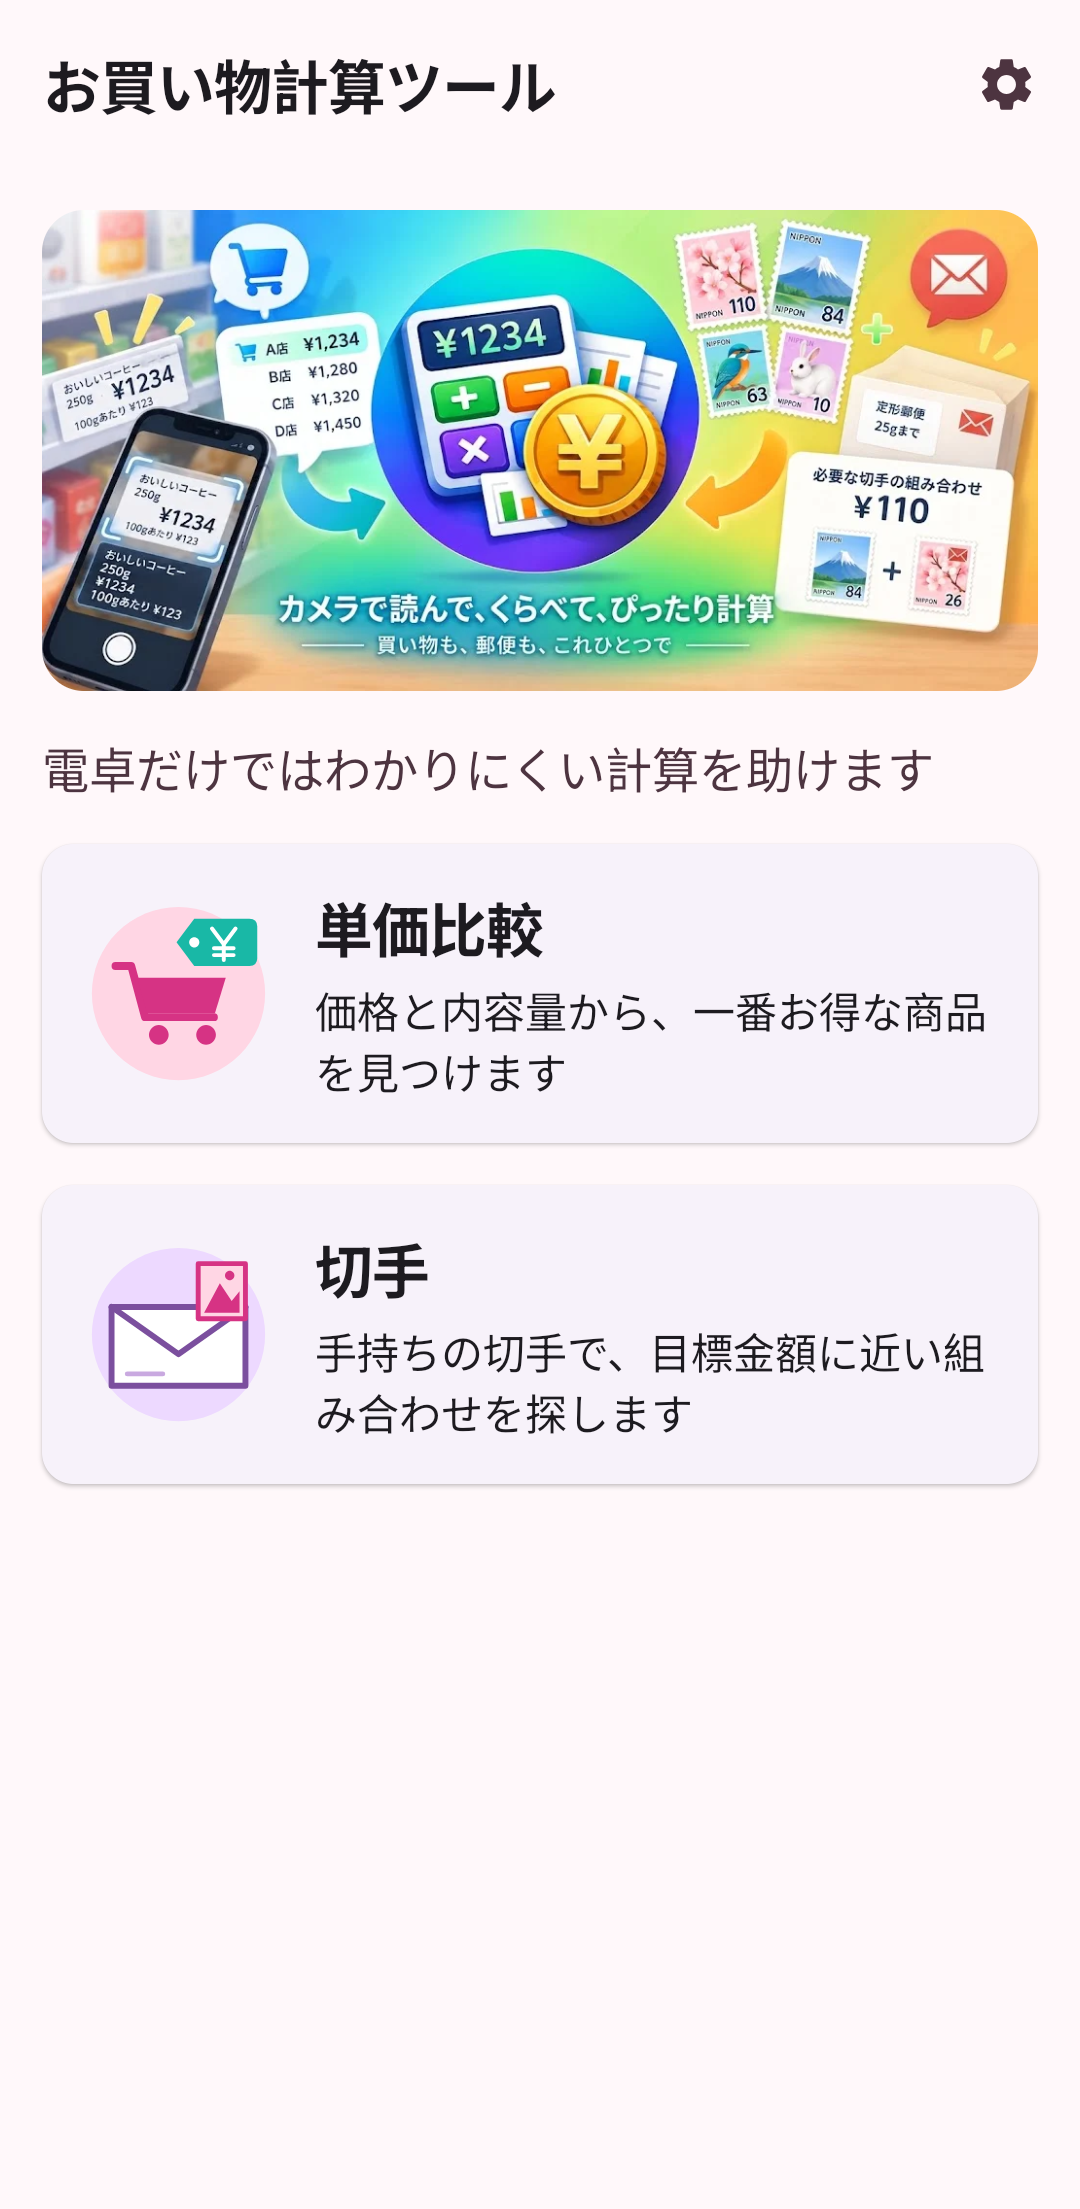
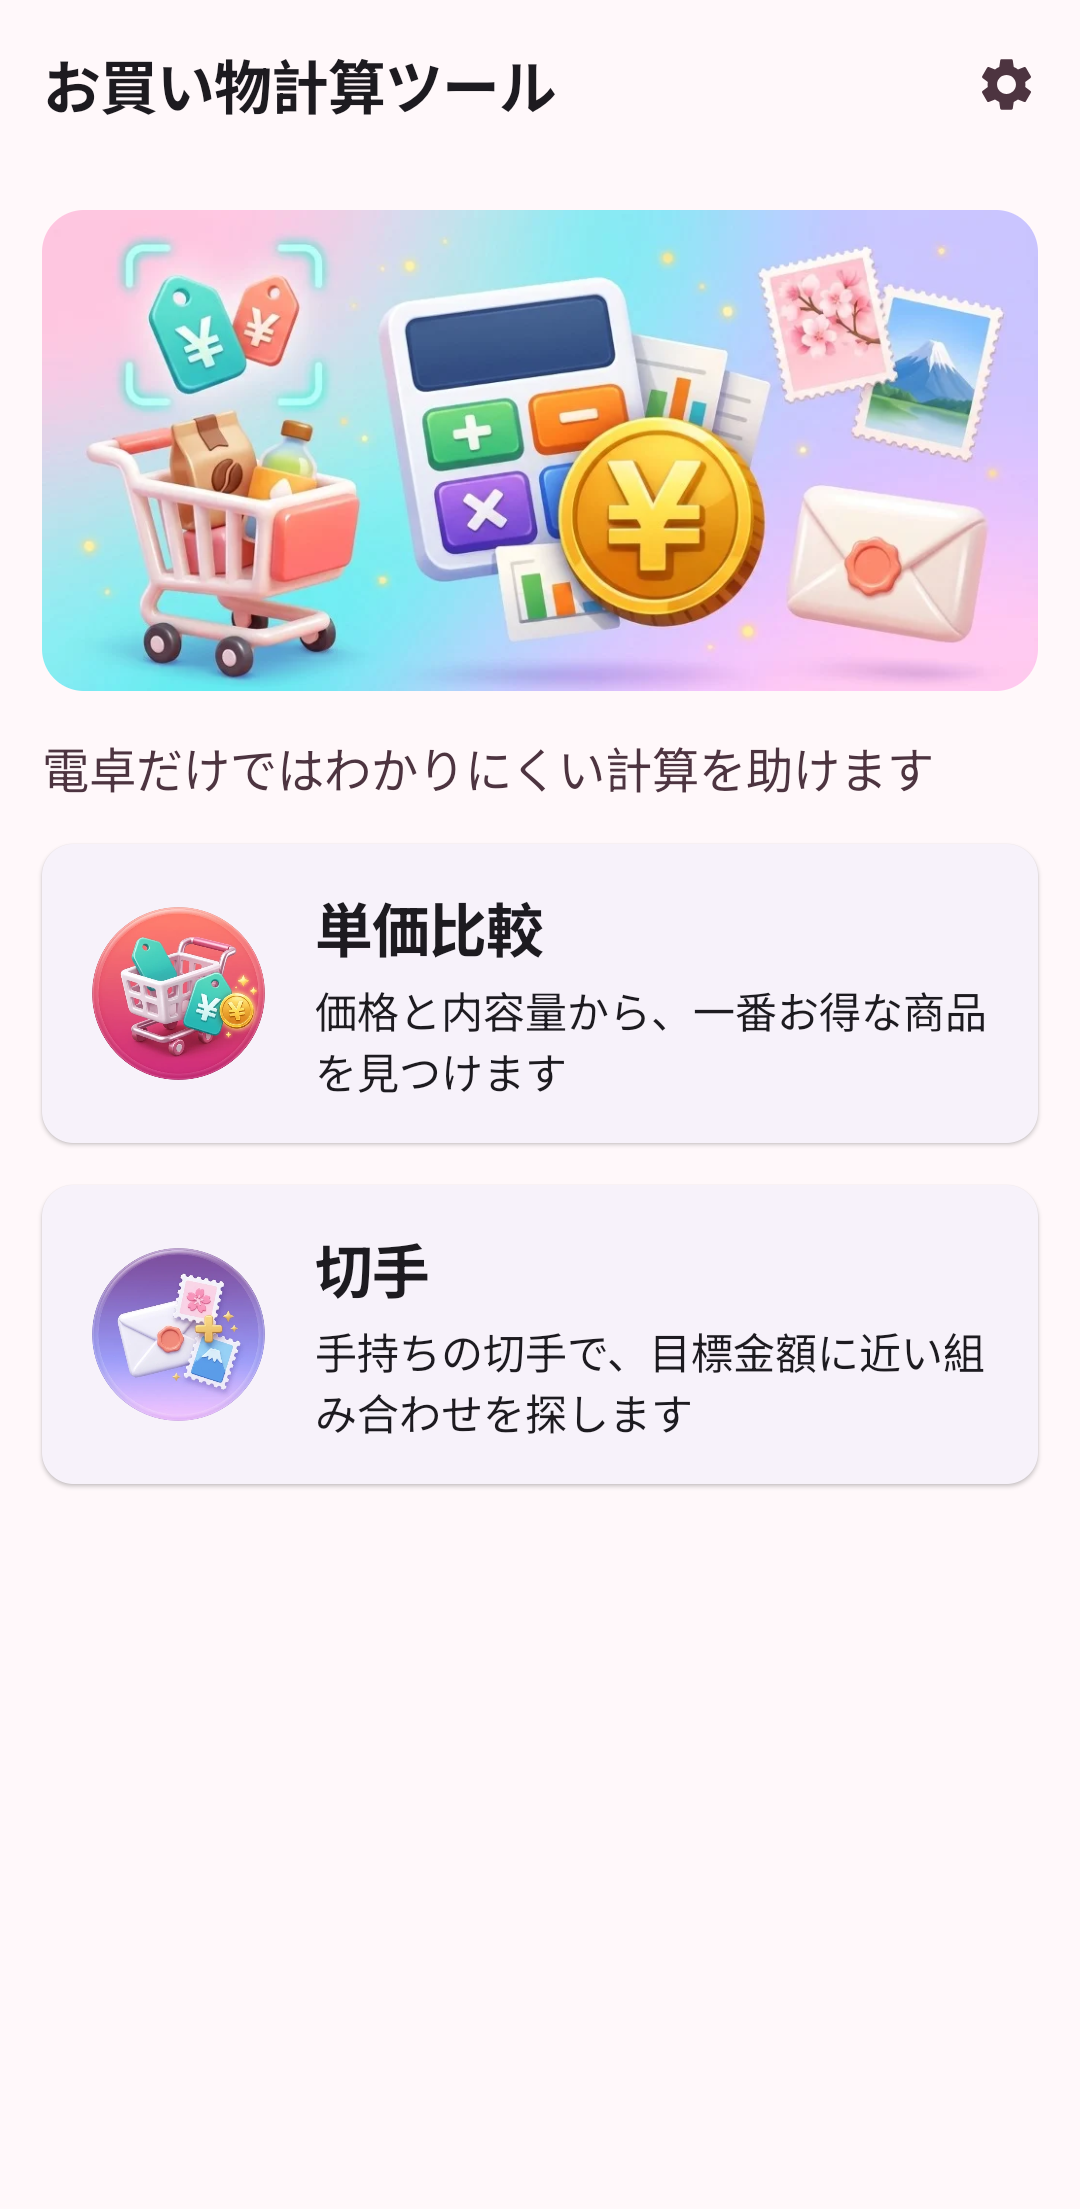
feat: メニュー画面のバナーと機能カード画像をラスター画像へ差し替え (#81, #112) (#117)

Changed region(s): [[0.0306, 0.0937, 0.9778, 0.3124], [0.0611, 0.5622, 0.2444, 0.656], [0.0611, 0.4061, 0.2444, 0.4998]]

diff --git a/CHANGELOG.md b/CHANGELOG.md
@@ -32,8 +32,8 @@
   - 起動時にメニューを表示し、各計算機能をカードで選んで開く。機能の定義（`ToolFeature`）を一覧にして、新しい機能を追加しやすくした
   - 設定はメニュー右上の ⚙ から開く
 - メニューにグラフィックを追加 (#81)
-  - ヘッダーに、ストア掲載と同じバナーを表示。`assets/feature-graphic.jpg` から `scripts/generate_menu_banner.mjs`（`pnpm gen-menu-banner`）で WebP に変換する
-  - 各機能のカードに、Vector Drawable のイラスト（単価比較: カートと値札、切手: 封筒と切手）を表示。`ToolFeature` の `icon` を `graphicRes` に置き換え、新しい機能はイラストを添えて追加する
+  - ヘッダーに、メニュー専用のバナーを表示。`assets/menu-banner.jpg`（Play ストア用の `assets/feature-graphic.jpg` とは別原画）から `scripts/generate_menu_banner.mjs`（`pnpm gen-menu-banner`）で `drawable-nodpi/menu_banner.webp` に変換する
+  - 各機能のカードに、透過 WebP の円形バッジイラスト（`drawable-nodpi/menu_unit_price.webp`・`menu_stamps.webp`）を表示。`ToolFeature` の `icon` を `graphicRes` に置き換え、新しい機能はイラストを添えて追加する
 - ストア掲載用に、新しい UI（メニュー・単価比較・切手・設定）のスクリーンショットを追加 (#112)
   - `StoreScreenshotsTest`（`androidTest`）が、画面の状態をセットして撮影する。通常のテスト実行では何もせずに成功し、`captureScreenshots=true` を渡したときだけ撮影する。システムバーを除いた、アプリの画面だけを保存する
   - `assets/screenshot/v1.3/` に追加。`scripts/generate_play_assets.mjs` が、版ごとのディレクトリを 9:16（1440×2560）へ整形する。v1.2.0 用の元画像は、公開済みのリリースノートが参照しているため、変更しない

diff --git a/docs/play-store-listing.md b/docs/play-store-listing.md
@@ -166,6 +166,12 @@ ML Kit の識別子は「インストールごとの ID であり、利用者個
 
 撮影元の 1096×2560 や 1080×2209 は、Play の「長辺は短辺の 2 倍以内」を満たさない（2560/1096 = 2.34、2209/1080 = 2.05）。このため 9:16 へ整形してから入稿する。
 
+### アプリ内メニュー画面のグラフィック（来歴）
+
+- **ヘッダーバナー**: `assets/menu-banner.jpg`（1024×495）を `scripts/generate_menu_banner.mjs`（`pnpm gen-menu-banner`）で `app/src/main/res/drawable-nodpi/menu_banner.webp` に変換する。Play ストア用の `assets/feature-graphic.jpg` とは別ファイルで管理する
+- **機能カードのイラスト**: `app/src/main/res/drawable-nodpi/menu_unit_price.webp`・`menu_stamps.webp`（512×512、透過背景 WebP）
+- **生成元・利用条件**: Google Gemini 画像生成（Antigravity `image-generator`）で原画を生成し、`@napi-rs/canvas` で円形透過マスク・WebP 変換を実施。Google 生成 AI 利用規約に基づき商用利用可・クレジット表記不要
+
 ### スクリーンショット（v1.3.0 以降）
 
 v1.3.0 でボトムナビがメニュー画面（ハブ型）に変わったため、v1.2.0 のスクリーンショットは旧 UI のまま（#112）。次の 5 枚に差し替える。
